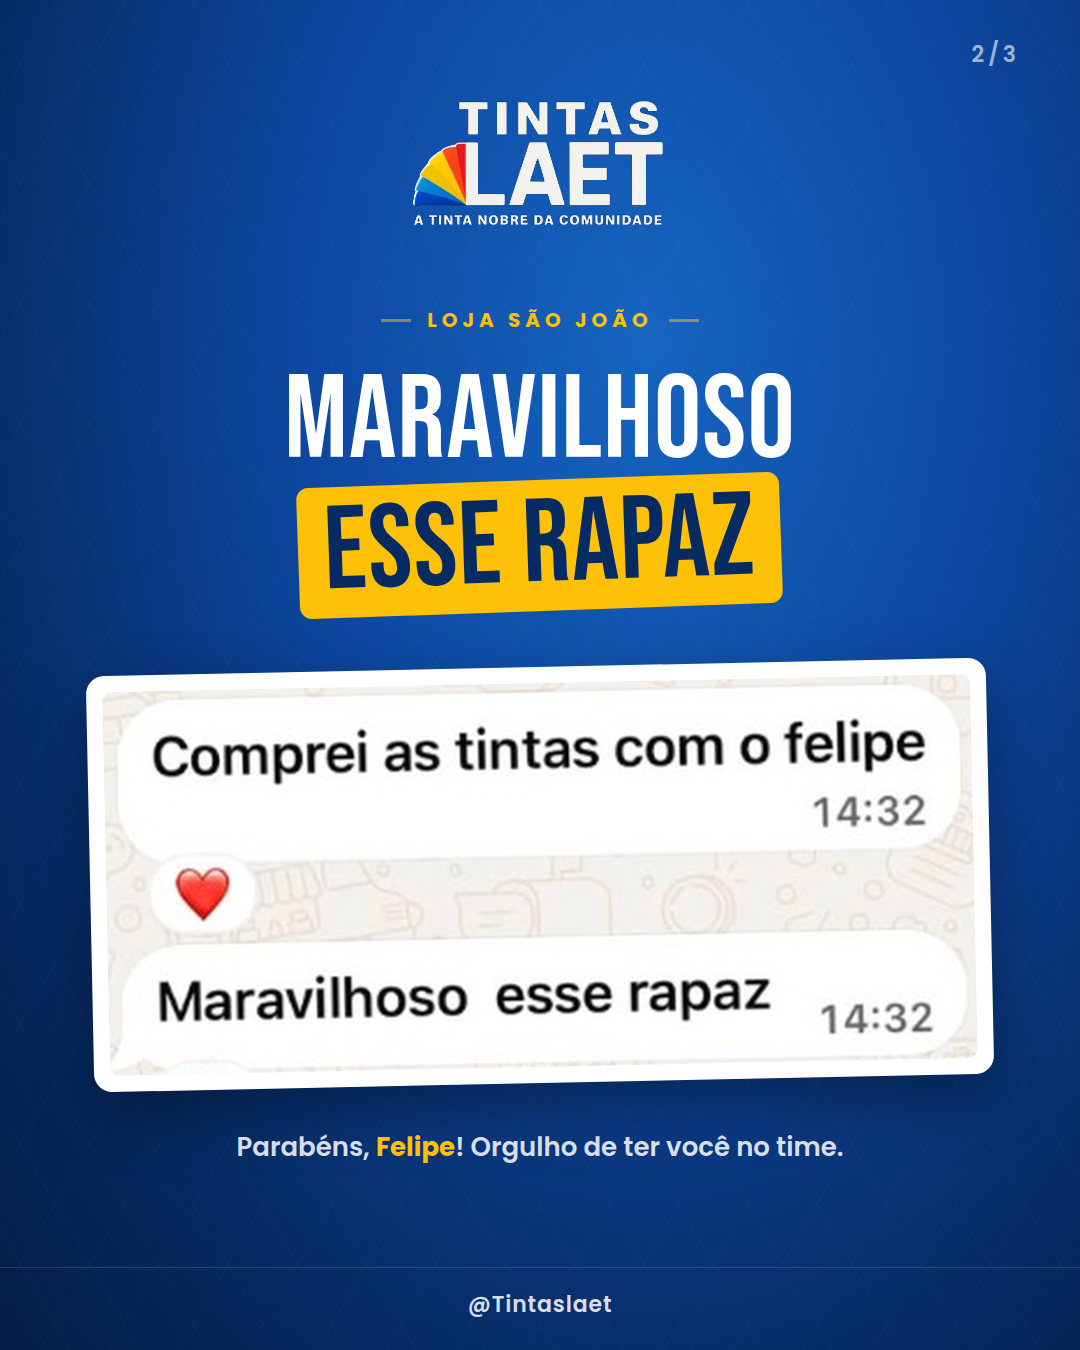
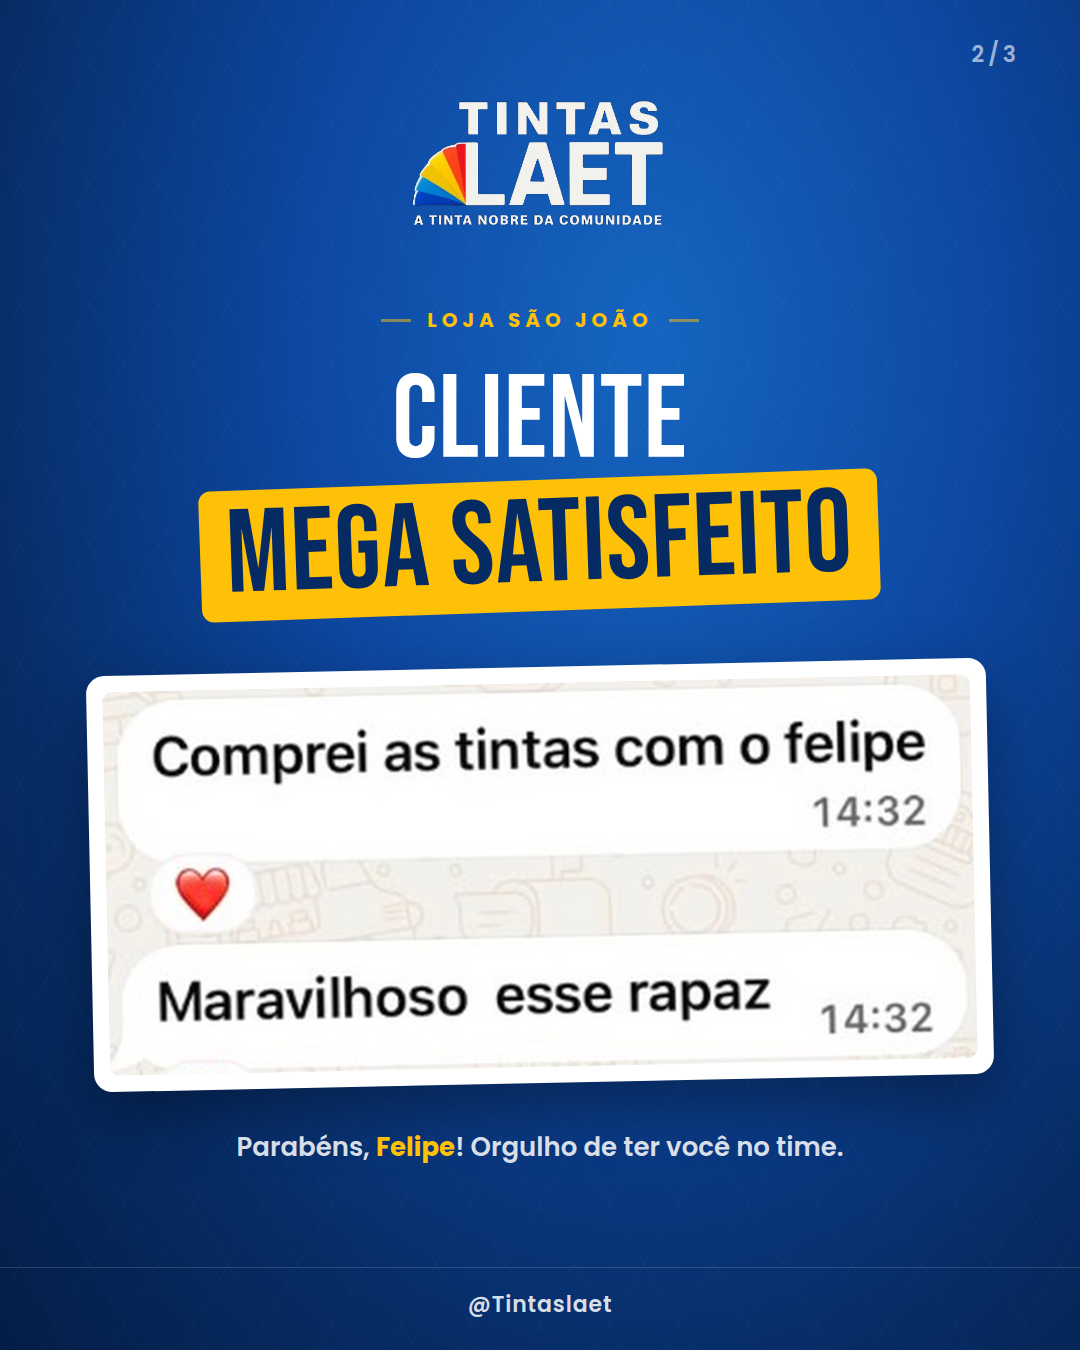
Slide 2 do post de feedback: título 'Cliente mega satisfeito'
Claude-Session: https://claude.ai/code/session_01GERzdKqRwXMVg2X3B1iW2A

Changed region(s): [[0.1833, 0.28, 0.825, 0.4667]]

diff --git a/marketing/conteudo/post-feedback-cliente-felipe-2026-10-01/carrossel.html b/marketing/conteudo/post-feedback-cliente-felipe-2026-10-01/carrossel.html
@@ -54,7 +54,7 @@ h1 .chip { background:#FFC107; color:#062B63; padding:2px 26px; border-radius:12
   <img class="logo" src="../../../identidade/logotipo branco-remove-bg-io.png" alt="Tintas Laet">
   <div class="count">2/3</div>
   <div class="eyebrow">Loja São João</div>
-  <h1>MARAVILHOSO<br><span class="chip">ESSE RAPAZ</span></h1>
+  <h1>CLIENTE<br><span class="chip">MEGA SATISFEITO</span></h1>
   <div class="print"><img src="crop-b.png" alt="Mensagem do cliente no WhatsApp"></div>
   <div class="nota">Parabéns, <b>Felipe</b>! Orgulho de ter você no time.</div>
   <div class="rodape">@Tintaslaet</div>
